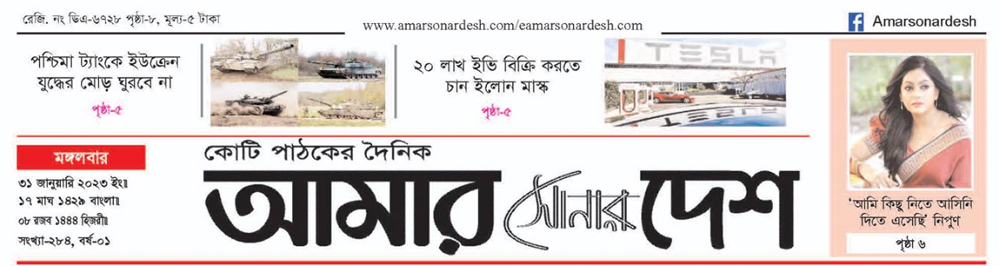
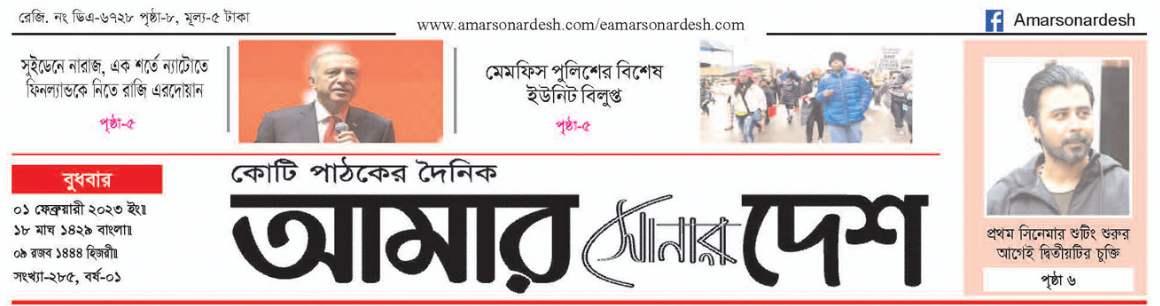
modify and update

diff --git a/public/Assets/css/theme.css b/public/Assets/css/theme.css
@@ -89,14 +89,11 @@ nav ul li:hover {
 
 .news-page-content-header a:hover {
     cursor: zoom-in;
+    opacity: 0.7;
 }
 
-.news-box-row {
-    width: 100%;
-    height: 300px;
-    border: 1px solid lavender;
+.news-page-content-body a:hover {
+    cursor: zoom-in;
+    opacity: 0.7;
 }
 
-.news-box-item {
-    border: 1px solid lavender;
-}

diff --git a/resources/views/main.blade.php b/resources/views/main.blade.php
@@ -23,38 +23,59 @@
             @include('menu.page_menu')
             <!-- page-menu end -->
 
-            <!-- news page content layout start -->
-            <div class="row flex-row">
-                <div class="news-page-content-layout">
-                    <div class="row">
-                        <!-- news page content header start -->
-                        @include('news_content.page_content_header')
-                        <!-- news page content header end -->
+            <!-- news page content header start -->
+            <div class="row">
+                <div class="news-page-content-header d-flex justify-content-center mt-2">
+                    <div class="col">
+                        <a href="#">
+                            <img class="img-fluid" src="{{asset('Assets/img/paper-header.jpg')}}" alt="">
+                        </a>
                     </div>
-                    <!-- news page content body start -->
-                    <div class="row">
-                        <div class="news-page-content-body d-flex">
-                            <div class="row d-flex  news-box-row">
-                                <div class="flex-shrink news-box-item bg-danger">
-
-                                </div>
-                                <div class="flex-shrink news-box-item bg-info">
-
-                                </div>
-                                <div class="flex-shrink news-box-item bg-warning">
-
-                                </div>
-                                <div class="flex-shrink news-box-item bg-primary">
-
-                                </div>
-                            </div>
-                        </div>
-                    </div>
-                    <!-- news page content body end -->
                 </div>
             </div>
-            <!-- news page content layout start -->
+            <!-- news page content header end -->
 
+            <!-- news page content body start -->
+            <div class="row">
+                <!-- 1st row start -->
+                <div class="news-page-content-body d-flex justify-content-center mt-2">
+                    @foreach($firstRow as $key=> $news)
+                    <div class="col">
+                        <a href="#">
+                            <img class="" src="{{asset('')}}{{$news->newsData}}" alt="">
+                        </a>
+                    </div>
+                    @endforeach
+                </div>
+                <!-- 1st row end -->
+            </div>
+            <div class="row">
+                <!-- 2nd row start -->
+                <div class="news-page-content-body d-flex justify-content-center mt-2">
+                    @foreach($secondtRow as $key=> $news)
+                    <div class="col">
+                        <a href="#" data-bs-toggle="modal" data-bs-target="#exampleModal">
+                            <img class="" src="{{asset('')}}{{$news->newsData}}" alt="">
+                        </a>
+                    </div>
+                    @endforeach
+                </div>
+                <!-- 2nd row end -->
+            </div>
+            <div class="row">
+                <!-- 3rd row start -->
+                <div class="news-page-content-body d-flex justify-content-center mt-2">
+                    @foreach($thirdRow as $key=> $news)
+                    <div class="col">
+                        <a href="#">
+                            <img class="" src="{{asset('')}}{{$news->newsData}}" alt="">
+                        </a>
+                    </div>
+                    @endforeach
+                </div>
+                <!-- 3rd row end -->
+            </div>
+            <!-- news page content body end -->
         </div>
         <!-- content body end -->
 
@@ -62,5 +83,13 @@
     <!-- main content end -->
 
 
+     <!-- Modal -->
+     <div class="modal fade" id="exampleModal" tabindex="-1" aria-labelledby="exampleModalLabel" aria-hidden="true">
+            <div class="modal-dialog modal-sm">
+                <div class="modal-content">
+                   <h1>this is modal menu</h1>
+                </div>
+            </div>
+        </div>
     <!-- theme footer -->
     <x-footer />

diff --git a/resources/views/dashboard.blade.php b/resources/views/dashboard.blade.php
@@ -4,14 +4,72 @@
             {{ __('Dashboard') }}
         </h2>
     </x-slot>
+    <x-header />
 
-    <div class="py-12">
-        <div class="max-w-7xl mx-auto sm:px-6 lg:px-8">
-            <div class="bg-white overflow-hidden shadow-sm sm:rounded-lg">
-                <div class="p-6 text-gray-900">
-                    {{ __("You're logged in!") }}
+    <body>
+
+        <div class="row d-flex justify-content-center">
+            @if(session()->has('success'))
+            <div class="row">
+                <span>{{session('success')}}</span>
+            </div>
+            @endif
+            <div class="col-6 card mt-4">
+                <div class="card-header text-center">
+                    <h4>News Uploading</h4>
                 </div>
+                <table>
+                    <tbody>
+                        <form action="{{route('firstRow')}}" method="post" enctype="multipart/form-data">
+                            @csrf
+                            <tr>
+                                <td>
+                                    <label for="">1st row </label>
+                                </td>
+                                <td class="text-center">
+                                    <input type="hidden" name="row" value="1">
+                                    <input type="file" name="news">
+                                </td>
+                                <td style="width:20%;">
+                                    <button class="btn btn-primary">Upload</button>
+                                </td>
+                            </tr>
+                        </form>
+                        <form action="{{route('secondRow')}}" method="post" enctype="multipart/form-data">
+                            @csrf
+                            <tr>
+                                <td>
+                                    <label for="">2nd row </label>
+                                </td>
+                                <td class="text-center">
+                                    <input type="hidden" name="row" value="2">
+                                    <input type="file" name="news">
+                                </td>
+                                <td style="width:20%;">
+                                    <button class="btn btn-primary">Upload</button>
+                                </td>
+                            </tr>
+                        </form>
+                        <form action="{{route('thirdRow')}}" method="post" enctype="multipart/form-data">
+                            @csrf
+                            <tr>
+                                <td>
+                                    <label for="">2rd row </label>
+                                </td>
+                                <td class="text-center">
+                                    <input type="hidden" name="row" value="3">
+                                    <input type="file" name="news">
+                                </td>
+                                <td style="width:20%;">
+                                    <button class="btn btn-primary">Upload</button>
+                                </td>
+                            </tr>
+                        </form>
+                    </tbody>
+                </table>
+
+
             </div>
         </div>
-    </div>
+        <x-footer />
 </x-app-layout>

diff --git a/app/Http/Controllers/NewsDataController.php b/app/Http/Controllers/NewsDataController.php
@@ -1,0 +1,65 @@
+<?php
+
+namespace App\Http\Controllers;
+
+use Illuminate\Http\Request;
+use App\Models\NewsData;
+
+class NewsDataController extends Controller
+{
+    public function index()
+    {
+        $firstRow = NewsData::where('rowNo',1)->get();
+        $secondtRow = NewsData::where('rowNo',2)->get();
+        $thirdRow = NewsData::where('rowNo',3)->get();
+        return view('main',['firstRow'=>$firstRow, 'secondtRow'=>$secondtRow, 'thirdRow'=>$thirdRow]);
+    }
+    public function upload1(Request $request)
+    {
+        //return $request->all();
+       $data = new NewsData;
+       $data->rowNo = $request->row;
+       $url = "storage/";
+       $news = $request->file('news');
+       $news_name = $news->getClientOriginalName();      
+       $news_storage = $news->storeAs("public/uploads", $news_name);
+       $news_path = 'storage/uploads/'.$news_name;
+       $data->newsData = $news_path;
+        $data->save();
+
+        session()->flash('success', 'news uploaded successfully..!!');
+        return redirect()->back();
+    }
+    public function upload2(Request $request)
+    {
+        //return $request->all();
+       $data = new NewsData;
+       $data->rowNo = $request->row;
+       $url = "storage/";
+       $news = $request->file('news');
+       $news_name = $news->getClientOriginalName();      
+       $news_storage = $news->storeAs("public/uploads2", $news_name);
+       $news_path = 'storage/uploads2/'.$news_name;
+       $data->newsData = $news_path;
+        $data->save();
+
+        session()->flash('success', 'news uploaded successfully..!!');
+        return redirect()->back();
+    }
+    public function upload3(Request $request)
+    {
+        //return $request->all();
+       $data = new NewsData;
+       $data->rowNo = $request->row;
+       $url = "storage/";
+       $news = $request->file('news');
+       $news_name = $news->getClientOriginalName();      
+       $news_storage = $news->storeAs("public/uploads3", $news_name);
+       $news_path = 'storage/uploads3/'.$news_name;
+       $data->newsData = $news_path;
+        $data->save();
+
+        session()->flash('success', 'news uploaded successfully..!!');
+        return redirect()->back();
+    }
+}

diff --git a/routes/web.php b/routes/web.php
@@ -2,6 +2,7 @@
 
 use App\Http\Controllers\ProfileController;
 use Illuminate\Support\Facades\Route;
+use App\Http\Controllers\NewsDataController;
 
 /*
 |--------------------------------------------------------------------------
@@ -17,12 +18,16 @@ use Illuminate\Support\Facades\Route;
 Route::get('/', function () {
     return view('main');
 });
+Route::get('/',[NewsDataController::class, 'index'])->name('main');
 
 Route::get('/dashboard', function () {
     return view('dashboard');
 })->middleware(['auth', 'verified'])->name('dashboard');
 
 Route::middleware('auth')->group(function () {
+    Route::post('first-row',[NewsDataController::class, 'upload1'])->name('firstRow');
+    Route::post('second-row',[NewsDataController::class, 'upload2'])->name('secondRow');
+    Route::post('third-row',[NewsDataController::class, 'upload3'])->name('thirdRow');
     Route::get('/profile', [ProfileController::class, 'edit'])->name('profile.edit');
     Route::patch('/profile', [ProfileController::class, 'update'])->name('profile.update');
     Route::delete('/profile', [ProfileController::class, 'destroy'])->name('profile.destroy');

diff --git a/resources/views/news_content/page_content_body.blade.php b/resources/views/news_content/page_content_body.blade.php
@@ -1,0 +1,24 @@
+<div class="news-page-content-body">
+    <!-- 1st row start -->
+    <div class="d-flex flex-row news-box-row">
+        @foreach($firstRow as $key=> $news)
+        <div class="col news-box-item">
+            <a href="#">
+                <img class="" src="{{asset('')}}{{$news->newsData}}" alt="">
+            </a>
+        </div>
+        @endforeach
+    </div>
+    <!-- 1st row end -->
+    <!-- 2nd row start -->
+    <div class="d-flex flex-row news-box-row">
+        @foreach($secondtRow as $key=> $news)
+        <div class="col news-box-item">
+            <a href="#">
+                <img class="" src="{{asset('')}}{{$news->newsData}}" alt="">
+            </a>
+        </div>
+        @endforeach
+    </div>
+    <!-- 2nd row end -->
+</div>

diff --git a/database/migrations/2023_02_01_042224_create_news_data_table.php b/database/migrations/2023_02_01_042224_create_news_data_table.php
@@ -1,0 +1,33 @@
+<?php
+
+use Illuminate\Database\Migrations\Migration;
+use Illuminate\Database\Schema\Blueprint;
+use Illuminate\Support\Facades\Schema;
+
+return new class extends Migration
+{
+    /**
+     * Run the migrations.
+     *
+     * @return void
+     */
+    public function up()
+    {
+        Schema::create('news_data', function (Blueprint $table) {
+            $table->id();
+            $table->string('rowNo');
+            $table->string('newsData');
+            $table->timestamps();
+        });
+    }
+
+    /**
+     * Reverse the migrations.
+     *
+     * @return void
+     */
+    public function down()
+    {
+        Schema::dropIfExists('news_data');
+    }
+};

diff --git a/resources/views/news_content/page_content_header.blade.php b/resources/views/news_content/page_content_header.blade.php
@@ -1,5 +1,8 @@
-<div class="news-page-content-header mb-2 d-flex justify-content-center">
-    <a href="#">
-        <img class="img-fluid" src="{{asset('Assets/img/paper-header.jpg')}}" alt="">
-    </a>
+<div class="d-flex news-page-content-header mb-2">
+    <div class="col bg-danger">
+        <a href="#">
+            <img class="" src="{{asset('Assets/img/paper-header.jpg')}}" alt="">
+        </a>
+    </div>
+
 </div>

diff --git a/app/Models/NewsData.php b/app/Models/NewsData.php
@@ -1,0 +1,13 @@
+<?php
+
+namespace App\Models;
+
+use Illuminate\Database\Eloquent\Factories\HasFactory;
+use Illuminate\Database\Eloquent\Model;
+
+class NewsData extends Model
+{
+    use HasFactory;
+
+    protected $guarded = [];
+}
